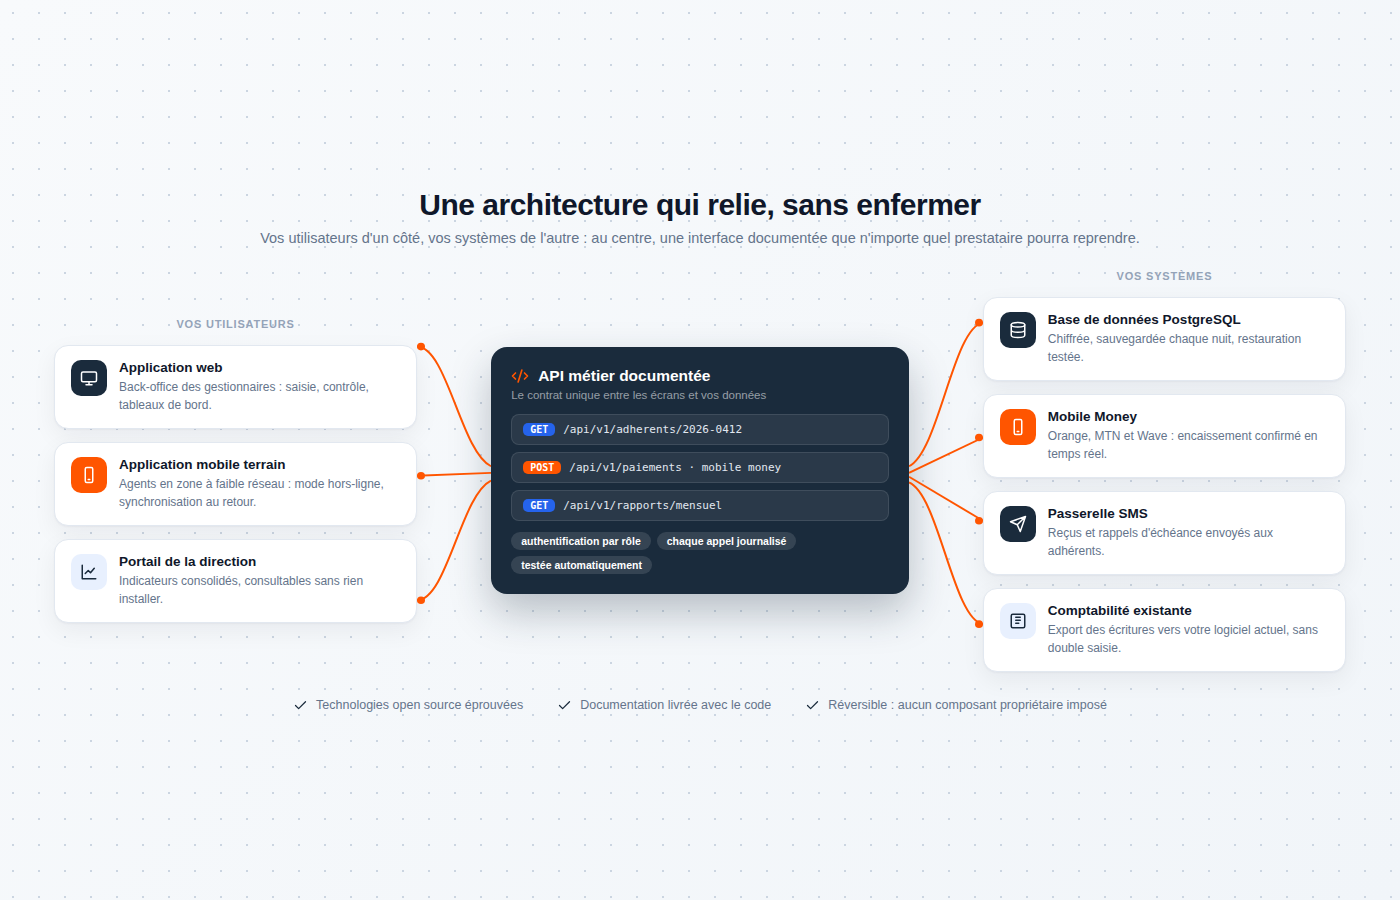
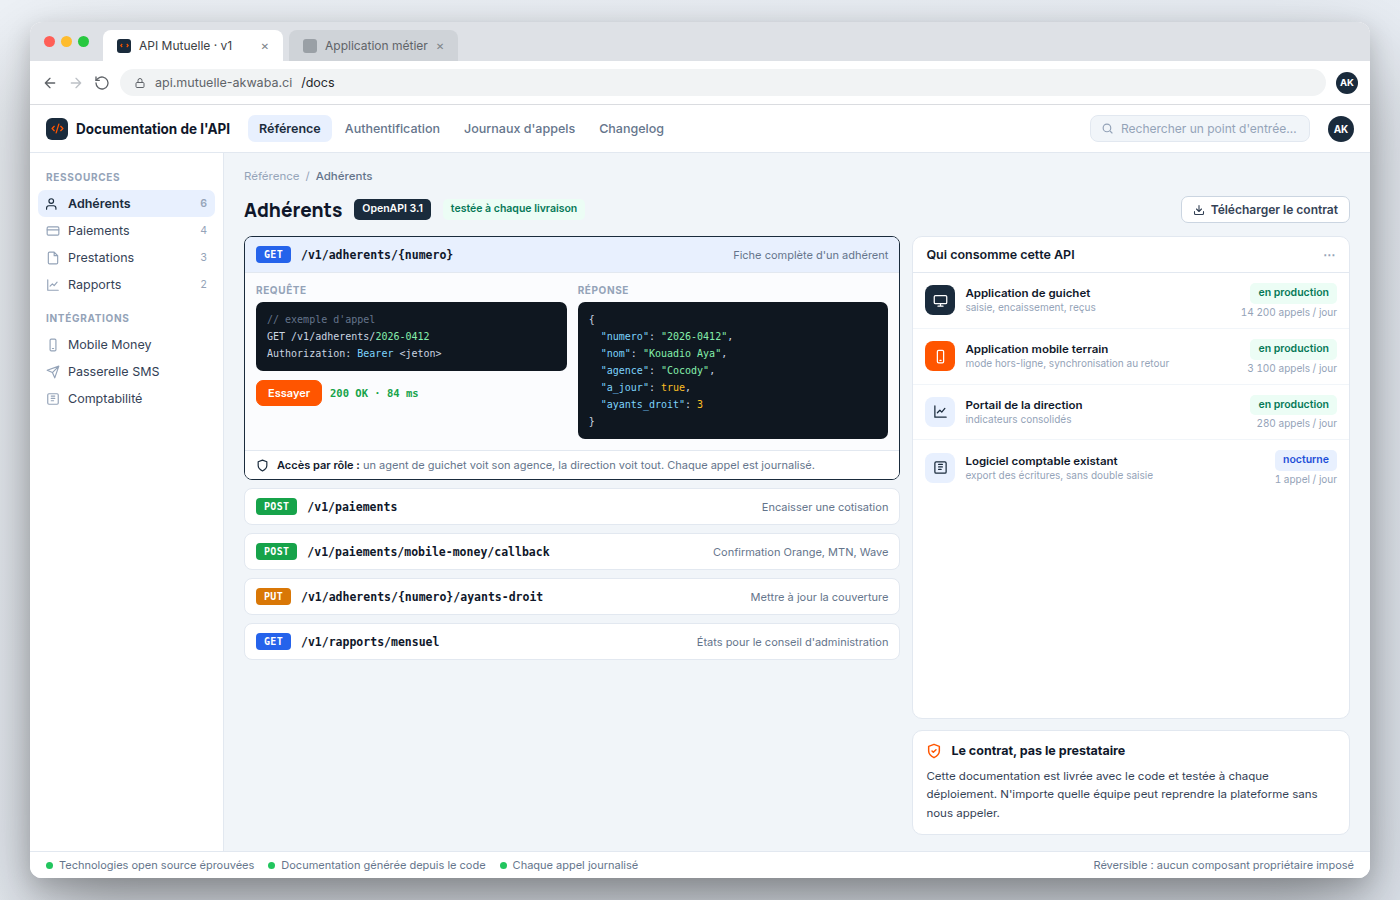
feat(dev-metiers): captures logiciel réalistes à la place des schémas
Les 3 visuels de la page Développement Métiers deviennent de vraies
captures d'écran, sur le cas fil rouge de la mutuelle :
- constat : classeur Excel avec fiche d'adhérente en doublon et erreurs
  #N/A, carnet de reçus manuscrits, face à l'application métier où la
  fiche est unique et le reçu part par SMS
- architecture : documentation de l'API (points d'entrée, exemple
  d'appel et réponse JSON, droits par rôle, applications consommatrices)
- cycle : tableau de sprint avec recette client, retour de la
  trésorière, courbe d'avancement et démonstrations bimensuelles

Textes alt mis à jour en conséquence.

diff --git a/src/components/developpement-metiers/DmServices.tsx b/src/components/developpement-metiers/DmServices.tsx
@@ -23,7 +23,7 @@ export default function DmServices() {
           <FadeUp>
             <Image
               src="/developpement-metiers-images/dm-architecture.png"
-              alt="Hub d'intégration reliant applications web, mobiles, bases de données et systèmes externes par des interfaces documentées"
+              alt="Documentation de l’API métier : les points d’entrée (fiche adhérent, encaissement, confirmation Mobile Money, rapports), un exemple d’appel avec sa réponse JSON, les droits d’accès par rôle, et la liste des applications qui la consomment (guichet, mobile terrain, portail de direction, logiciel comptable)"
               width={1400}
               height={900}
               loading="lazy"

diff --git a/src/components/developpement-metiers/DmIntro.tsx b/src/components/developpement-metiers/DmIntro.tsx
@@ -62,7 +62,7 @@ export default function DmIntro() {
           <FadeUp delay={0.2}>
             <Image
               src="/developpement-metiers-images/dm-contexte.png"
-              alt="Des fragments documentaires éparpillés et ressaisis à la main, unifiés en une plateforme métier structurée"
+              alt="Avant-après : le classeur Excel d’une mutuelle avec une fiche d’adhérente en doublon et des erreurs #N/A, accompagné du carnet de reçus manuscrits du guichet, face à l’application métier où la même adhérente a une fiche unique, un reçu envoyé par SMS et un historique sans écart"
               width={1400}
               height={1000}
               loading="lazy"

diff --git a/src/components/developpement-metiers/DmRoadmap.tsx b/src/components/developpement-metiers/DmRoadmap.tsx
@@ -33,7 +33,7 @@ export default function DmRoadmap() {
           <div className="mb-16">
             <Image
               src="/developpement-metiers-images/dm-cycle.png"
-              alt="Cycle de livraison itératif : des boucles de sprint successives déposent des incréments fonctionnels jusqu'à la mise en production"
+              alt="Tableau de suivi du sprint 3 : cinq fonctionnalités terminées, deux en recette chez le client avec le retour de la trésorière, le sprint suivant planifié, la courbe d’avancement et l’historique des démonstrations toutes les deux semaines"
               width={1400}
               height={900}
               loading="lazy"
